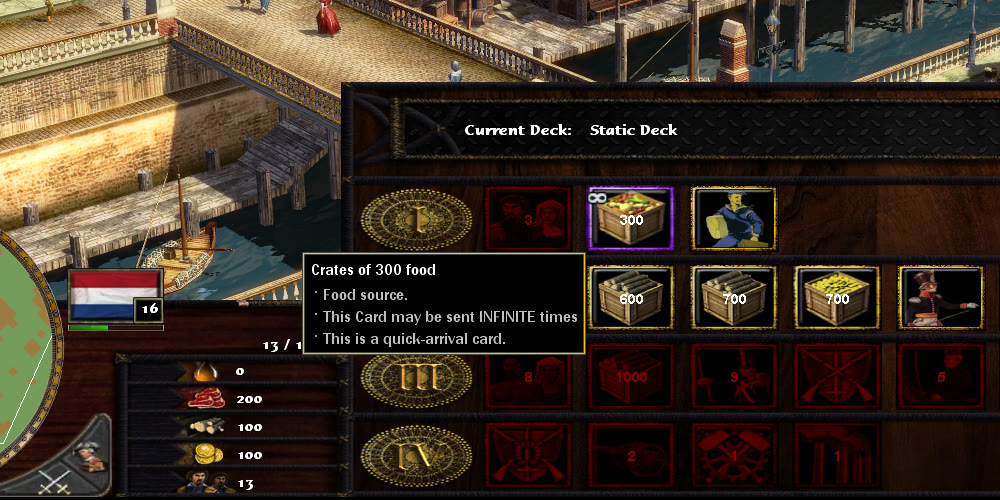
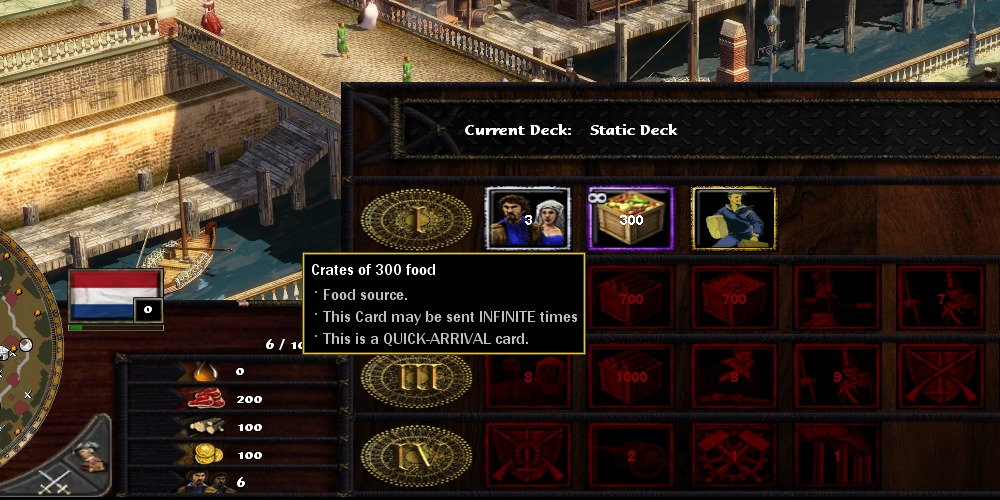
quickArrivalCards: the default line reads "This is a QUICK-ARRIVAL card." (JTMaston, #99)
The four pictures with the line (in-game panel and Build a Deck, infinite and once card) taken again in
C:\AoE3-UHC-WoLReal3; the docs, the cfg template and the release README quote the new text.

Claude-Session: https://claude.ai/code/session_01GGKAnWzN5jTKNpJ5oBoixZ

diff --git a/src/features/quickarrival.cpp b/src/features/quickarrival.cpp
@@ -1,5 +1,5 @@
 // quickArrivalCards [stringid N] [log]: <Flag>QuickArrival</Flag> on a home city card's tech adds the bullet line
-// "This is a quick-arrival card." to the card's rollover, right after its send-limit line ("This Card may be sent
+// "This is a QUICK-ARRIVAL card." to the card's rollover, right after its send-limit line ("This Card may be sent
 // INFINITE times" / "ONE time" / N times), before the advanced info. Display only.
 //
 // The card rollover builder FUN_007103CE(list, hc, tech, ...) is the one used by the in-game shipment panel
@@ -29,7 +29,7 @@ namespace {
 
 constexpr std::uint32_t kAdvancedJoin = 0x00710909;  // mov ecx,[0D6F6F0h]
 constexpr std::int32_t kMaxTech = 1 << 20;
-constexpr const wchar_t* kDefaultText = L"This is a quick-arrival card.";
+constexpr const wchar_t* kDefaultText = L"This is a QUICK-ARRIVAL card.";
 constexpr const wchar_t* kBullet = L"<ttf><ttb>";  // what FUN_004C5076(list, line, 1, 0) puts before a line
 
 // The engine's string: one pointer to a wide, reference-counted buffer; null is empty.

diff --git a/tools/package_release.py b/tools/package_release.py
@@ -296,7 +296,7 @@ ageFiveShipments              cards of <age>4</age> (Imperial Age) in the deck, 
 resendableCards [log]         <resendeveryage>1</resendeveryage> on a card: sendable again (its
                               maxcount) each time its player reaches a new age
 quickArrivalCards [stringid N] [log]  <Flag>QuickArrival</Flag> on a card's tech: the bullet line
-                              "This is a quick-arrival card." in the card's rollover
+                              "This is a QUICK-ARRIVAL card." in the card's rollover
 shipmentCounts [log]          cards shipped per player and card age, kept in saved games; Data
                               subtype FreeHomeCityUnitByShipmentCount, XS
                               xsGetShipmentCount and xsGetShipmentCountRange

diff --git a/docs/wol-requests.md b/docs/wol-requests.md
@@ -306,7 +306,7 @@ WoL's Middle East civs.
 | 96 | "As far as I remember, ship cannon shot sound sets are hardcoded somewhat. We would like to be able to make the rocket ships deliverable from the British home city use the rocket sound effects when shot." From JTMaston (2026-11-22). | hardcode | Built: [`broadsideSoundSet`](modding-guide.md#broadsidesoundset). Every shot of a `BroadsideAttack` action plays `ShipCannonShoot`, pushed at 0x4CECBD in FUN_004CEB37 (the fire step's per-shot effect, its only caller 0x4CEA02); the hook pushes the action's `<BroadsideSoundSet>`. The rocket ships of `HCRocketShips` are Frigates whose actions the card swaps for `RangedAttackRocket` / `BroadsideAttackRocket` (frigate.tactics, both `BroadsideAttack`), so the tag goes on those two actions (`DERocketShoot`, the land Rocket's sound). A name with no sound set is logged at the first shot and falls back. Filmed with sound (rocket Frigates against cannon Frigates) and a control; the sound confirmed by listening (rockets with the tag, cannon without). | confirmed in WoL (2026-11-22, single player) |
 | 97 | "We would like a `homecity<Civ>.xml` card boolean tag that allows a card to be resendable every time the player ages up, similar to how the infinitelastage tag works with imperial age. If the card wasn't sent in one age it should not stack the amount of times it can be resent." From JTMaston (2026-11-23). | new key | New key [`resendableCards`](modding-guide.md#resendablecards): `<resendeveryage>1</resendeveryage>` in a `<card>`. REA (2026-11-23): a player's card list `hc+228h` keeps each card's sends left in `[card+20h]` (set to `<maxcount>` when the list is built, −1 by FUN_0085FBEA at the send 0x85ACF8, +1 at a cancel; the send refuses at 0 with 8FFDh, the panel greys); stock `<infiniteinlastage>` is the byte `[card+24h]` and only one refill of those sends at the Imperial Age (FUN_0085650A from the age setter FUN_008D4E01). The tag is read through a new shared card tag hook (`AddCardTagHandler`, the loader's card commit 0x630017) and kept as bit 1 of `[card+24h]`, so the deck build and saved games carry it; at the age setter's join 0x8D502F, on an advance, a tagged card gets its sends set back to `<maxcount>` (set, not added: no stacking; one reset per age-up). The rollover's cost test lets a tagged card show its cost again (0x710804). Tested on a Dutch test map with the ages set by triggers: sent in Age I, back in Age II; sent in Age II, back in Age III; skipped in Age III, one send in Age IV; an untagged card stays sent; save/load before and after an age-up; key off, nothing comes back (video and control). The AI was not seen sending a tagged card twice (the test AI resigned early in every run). | confirmed in WoL (2026-11-23, single player) |
 | 98 | "If it doesn't cause too much lag and if it is possible, we would like to have an attack action boolean tag that allows a unit that shoots multiple projectiles to switch targets if a target is killed before the last bullet is shot; the mercenary maxim gun is an example of such unit." From JTMaston (2026-11-22). | mechanic | Built: [`retargetInAction`](modding-guide.md#retargetinaction), tag `<RetargetInAction>1</RetargetInAction>` on the attack. The Maxim's "bullets" are the six `Attack` tags of `Bombard_ranged_attack` (maxim_gun.xml): each one is a full shot (event 5 → the shot block, only in the attack's state 1). When the target died, the update (FUN_0048A330, branch 0x487838) moved the attack to its wait (state 19h), so the tags left fired nothing until the 4 s ROF was over. The hook at 0x487838 picks, for a tagged attack still in its animation, the nearest unit in range that the update itself would accept (0x489ECC, range, visibility, auto-attack type) and writes it to the attack's target `[ua+14h]`: the same attack goes on, the next tags hit the new target. A numberOfShots burst whose quick shot kills goes on too (the hold pose keeps the unit in state 1); a target lost during the reload wait is left to the stock code. Tests: Maxims against Landwehr and Regulars (12 killed in 5.3 s against 13 s with the tag at 0; 2 Maxims beat 16 Regulars that win without it), Merina riflemen with 3-shot bursts, save/load, AI skirmish (wolOtto), perfprobe (update 0.36 ms with, 0.35 ms without, no frame over 50 ms). Filmed with a control. Open: whether a player's ordered target should also be replaced (it is, today), and the Maxim's balance now that all six tags hit. | confirmed in WoL (2026-11-23, single player) |
-| 99 | "We'd like a QuickArrival flag for homecity card techs that adds a bullet entry to their description in between the rollover and the advanced info, or right after 'this card can be sent infinite times' if it's an infinite card. The bullet entry should read 'This is a quick-arrival card.' No other changes required." From JTMaston (2026-11-23). | new key | New key [`quickArrivalCards`](modding-guide.md#quickarrivalcards): `<Flag>QuickArrival</Flag>` on the card's tech. REA: the card rollover builder FUN_007103CE (in-game panel, Build a Deck, deck dialog) adds the name, population, rollover text, then the send-limit line (9001h/9002h/9003h, present on every card), then the advanced info; each line is a `<ttf><ttb>` bullet. The new line goes right after the send-limit line, in the same style (0x710909). The flag is read through the tech flag reader's head, now a shared hook (`AddTechFlagHandler`) that `hcTargetTechs` uses too. `stringid N` takes the text from the string table. Pictures: in-game panel and Build a Deck, an infinite and a once card, the control. | confirmed in WoL (2026-11-23, single player) |
+| 99 | "We'd like a QuickArrival flag for homecity card techs that adds a bullet entry to their description in between the rollover and the advanced info, or right after 'this card can be sent infinite times' if it's an infinite card. The bullet entry should read 'This is a quick-arrival card.' No other changes required." From JTMaston (2026-11-23). | new key | New key [`quickArrivalCards`](modding-guide.md#quickarrivalcards): `<Flag>QuickArrival</Flag>` on the card's tech. REA: the card rollover builder FUN_007103CE (in-game panel, Build a Deck, deck dialog) adds the name, population, rollover text, then the send-limit line (9001h/9002h/9003h, present on every card), then the advanced info; each line is a `<ttf><ttb>` bullet. The new line goes right after the send-limit line, in the same style (0x710909). The flag is read through the tech flag reader's head, now a shared hook (`AddTechFlagHandler`) that `hcTargetTechs` uses too. `stringid N` takes the text from the string table. Pictures: in-game panel and Build a Deck, an infinite and a once card, the control. 2026-11-25 (JTMaston): the default line reads *This is a QUICK-ARRIVAL card.*, the pictures taken again. | confirmed in WoL (2026-11-23, single player) |
 | 100 | "Not sure if this has been addressed before, but the Macehualtin animations only works with that model, Macehualtin model. If we could fix that, it'd be awesome since we have some other slinger units planned." From Punchline (2026-11-23). | art | Cause (the game's code, then seen in game): the game plays an animation on a model only through a track group named after the model (`GrannyFindTrackGroupForModel`, 0x426A5F and 0x4B6F1F); the Macehualtin's model and clips are `bone_master`, every standard infantry model `Bip01`, so on another body the clips do nothing (bind pose). The rigs are the same biped otherwise; the sling attachment plays on any body. Fixed in the art: aoe3-blender-tools' `tools/retarget_anims.py` (branch `claude/r1123-n-slinger`) retargets the 35 clips onto a `Bip01` skeleton (rotations from the rest pose, the body's own lengths, props and the hit point bar copied, the tag files with `LAUNCHPOINT` kept) and writes the anim blocks to paste. Preview sheet approved by the user. Pack [`wol-fixes/slinger-anims`](../wol-fixes/slinger-anims/README.txt): clips made on WoL's skirmisher and on the native rifleman, `--test` TEST units. Tested in WoLReal4: idle, walk, sling attack (in step with `POLYMarauder`), melee, deaths, the control in its bind pose, save/load, a German AI compiles; filmed ([guide](modding-guide.md#slinger-animations-on-other-models)). Open: which slinger units and models are planned; keep the shield; which projectile. | confirmed in WoL (2026-11-23, single player) |
 | 101 | Faith as its own resource: villagers pray at churches and mosques to gather faith, with praying animations (kneel for Christian civs, bow for Islamic civs); faith beside oil, in its own panel row. From the user, after JTMaston's faith question (2026-11-23); round 2026-11-24. | resource / art / DLL | **Optional** (the user, 2026-11-24): off unless both parts are on. New key `faithResource [log]`: resource 4 (`SkillPoints`, unused by WoL's data) becomes a plain resource: the skill point total 0x5011C6 no longer adds the home city's skill points (its six callers: kbResourceGet, the AI's KB copies, `{resource()}`, trPlayerResourceCount, the statistics), the home city bank FUN_00852924 adds nothing of it (XP banking kept), and a Gather of faith plays the tactics action's own `<anim>` (the engine picks a gather animation from the target only, FUN_004ED254: at a church villagers danced). Opt-in pack `wol-fixes/faith/` (apply / `--check` / `--restore`, README EN/ES): the Church, the Greek Temple, the Egyptian and Saudi Temple Caravans hold faith; 22 villager protos and 9 tactics files get a Gather `Pray` (0.25/s, the Maypole's rate; 10 per building); 20 anim files get PrayIn/Pray/PrayOut (each model's Idle with its hats, no tools) with the 12 clips of aoe3-blender-tools' `make_pray.py` (branch `claude/r1123-p-pray`); the Zulu are left out by Age0zulu; string 28530 "Faith", 1010001 "Pray", rollover lines; the AI's `buyCards` adds `kbGetHCLevel(cMyID) - 1` to `kbResourceGet(cResourceSkillPoints)` (the AI's start value of resource 4, level + 15, is its card budget and stays: zeroing it left the AI with no cards). Panel row: F2's separate pack `wol-fixes/faith-panel/`. Civs: README. **Tested (2026-11-23/24, copy WoLReal5, our UHC.dll, single player):** Spanish settlers knelt at a Church, faith +1.0/s with 4 (0.25 each), 0 at the start with 9 home city skill points; Persian-style SettlerME bowed at a Church and Balkan Peasants knelt at the Greek Temple, +1.5/s with 6; Ottoman settlers bowed at their mosque in a skirmish, and at the victory 65 faith was not banked (`log`), the saved Istanbul home city kept 9 skill points while its XP was banked; save and load kept faith (26.5) and the prayer; the AI (Germans) bought 14 cards with the key and the pack as without them (resource 4 20 → 6) and played 7.5 minutes (20 settlers, a Mill, Manors) with no XS error; without the key's animation hook the villagers danced at the church (the engine never plays a Gather's `<anim>`, FUN_004ED254); key and pack off: they stood idle at it. Videos `faithResource-wol`, `faithResource-ottomans-wol`, `faithResource-wol-control`. Performance: main thread 82.2 % with and without the key, 0 frames over 50 ms. **Panel (F2, `wol-fixes/faith-panel/`):** the faith row under oil in all 12 `SettlerCountDialog` variants of `data\uimainnew.xml`: `{resource(skillpoints)}`, tooltip string 1010101 ("Faith Gatherers: N", Spanish "Recolectores de fe: N"), click `uiFindResourceGatherers("skillpoints")`, the gatherer count on the left in the Asian, Native and advanced variants. The five panel backgrounds rebuilt by aoe3-blender-tools `tools/panel_rows.py` (every row moved from WoL's texture, the faith row painted with `tools/draw_praying_hands.py`; the icon is one PNG, swapped in one step); only the panel's DXT blocks change. Also fixed: the Asian minimized panel (population over the oil row, no oil amount) and the Native minimized one (no panel in its background); four oil gadgets renamed `minimapPanel-fame`. An optional, opt-in pack (the user, 2026-11-24: faith is a separate option, delivered apart from the rounds) with apply / `--check` / `--restore`; `--no-faith` installs only the panel fixes that do not need faith (WoL's own rows, `data\uimainnew.xml` only). Independent of the faith pack except the string tables (different IDs). | done (optional key + opt-in pack; single player); questions to JTMaston: civs, rates, what faith buys, leftovers, AI |
 | 102 | "The current gatling camel model is very crude. Take the zamburak's model as the base, replace its weapon with the rotating part and the trunnion of the American gatling, and animate it; in-game animations can be used as inspiration." From JTMaston (2026-11-24). | art / data | Replaces today's `GatlingCamel` (static gun, wood frame, gunner on foot). aoe3-blender-tools' `tools/make_gun_camel.py` (branch `claude/r1124-gatling-camel`): the zamburak camel with its swivel gun cut out (29 triangles; its post kept as the mount), the stock Gatling's casing with trunnion, barrels, crank and magazine as rigid parts on their own bones at 0.55 of its size, hung on `ATTACHPOINT` with `syncanims`, `bone_launchpoint` at the muzzle; the rider cranks it (IK), the barrels spin, the camel lowers its head at the gun. Previews approved by the user (model sheet, A saddle, B deployed, move, gaze; four rounds of fixes). Pack [`wol-fixes/gatling-camel`](../wol-fixes/gatling-camel/README.txt) (apply / `--check` / `--restore`, README EN/ES): `GatlingCamel` gets the new anim file and `GatlingCamelSaddle.tactics` (fires from the saddle, like the zamburak; stats, cards and strings unchanged); new `GatlingCamelDeployed` (copy of `GatlingCamel`, strings 690950-690952, `GatlingCamelDeployed.tactics`: deploy 5.33 s, undeploy 4.17 s): the camel lies down (the game's lying-down clips of its rig, turned upright), the gunner gets off step by step and fires on foot. After the user's review of the first films (2026-11-23), three bugs fixed: the camel's left legs drawn lifted (the stock clips' leg mirrors copied in the clips' own axes; now converted and checked bone by bone against the stock clips, 1e-7), the gun left in the air on death (then it turned on itself while the corpse faded; now the dead unit is the camel model with the gun built in, playing the stock camel deaths, so it falls and fades with the camel), the "giant" Gatling of the control (today's WoL model). In game the tool needed three fixes: the packed vertex stream 16-byte aligned (else the camel is not drawn), the gun hung on the rider's bone (on `HS Bone Chest` it drew tipped up), the gun's tangents kept (else it drew far too bright). Tested in WoLReal6: both units idle, walk, attack (shots from the muzzle), reload, deploy/undeploy, deaths, selection and HP bar, save/load, a Saudi skirmish against a German AI (no XS error); filmed with today's unit as the control ([guide](modding-guide.md#the-gatling-camel)). Second round (2026-11-23): walk, jog and run of both units mounted, the deploy, the undeploy and remount, the three deaths to the end of the fade, filmed close and checked frame by frame; movement video `gatlingCamel-move-wol`. Open: how `GatlingCamelDeployed` is obtained, its stats, whether the old model stays as an option. | confirmed in WoL (2026-11-23, single player); questions to JTMaston |

diff --git a/docs/modding-guide.md b/docs/modding-guide.md
@@ -38,7 +38,7 @@ A new test video counts as a change: a feature filmed again in WoL moves back to
 | Monday 2026-11-23 09:18 | [`dmgPartBoneFix`](bug-fixes.md#dmgpartbonefix) | Added. Stops the game from reloading a 3D model in use when a damage template names a bone the model lacks, the other cause of the Granny crashes (WoL #78). | Nothing; `wol-fixes/art-dmg-bones-20261123/` fixes the data itself. |
 | Monday 2026-11-23 08:05 | [`modelCacheLimit`](bug-fixes.md#modelcachelimit) | Added. Stops the game from unloading 3D models that units still use, the cause of the Granny crashes in big games (WoL #78). | The two data fixes in `wol-fixes/art-dmg-bones-20261123/`. |
 | Monday 2026-11-23 07:59 | [`resendableCards`](#resendablecards) | Added. `<resendeveryage>1</resendeveryage>` in a home city card: the card can be sent again each time its player reaches a new age (its `<maxcount>` back, no stacking across ages). | The tag on the cards that want it. |
-| Monday 2026-11-23 07:59 | [`quickArrivalCards`](#quickarrivalcards) | Added. `<Flag>QuickArrival</Flag>` on a card's tech adds the bullet line *This is a quick-arrival card.* to the card's rollover, after its *may be sent ... | The flag on the cards' techs; a string in the string table to translate the line. |
+| Monday 2026-11-23 07:59 | [`quickArrivalCards`](#quickarrivalcards) | Added. `<Flag>QuickArrival</Flag>` on a card's tech adds the bullet line *This is a QUICK-ARRIVAL card.* to the card's rollover, after its *may be sent ... | The flag on the cards' techs; a string in the string table to translate the line. |
 | Monday 2026-11-23 07:56 | [`retargetInAction`](#retargetinaction) | Added. An attack with `<RetargetInAction>1</RetargetInAction>` whose target dies before the last shot of its attack animation (a machine gun's Attack tags, a burst's quick shot) fires the rest at a new target in range, instead of losing them. | The tag on the attacks that want it (the machine guns' `CannonAttack` in `organGun.tactics`). |
 | Sunday 2026-11-22 13:54 | [`unitResourceAuras`](#unitresourceauras) | Filmed in WoL, with a control. An `AutoRangedModify` action with `<ModifyType>UnitResource</ModifyType>` gathers from the units around it, with DE's tags. | Nothing: WoL's `sawmill.tactics` already has such an aura. |
 | Sunday 2026-11-22 12:35 | [`broadsideSoundSet`](#broadsidesoundset) | Filmed in WoL, with a control. A `BroadsideAttack` action plays the sound set of its `<BroadsideSoundSet>` at each shot instead of `ShipCannonShoot`. | The tag on the rocket ships' actions in `frigate.tactics` (`RangedAttackRocket`, `BroadsideAttackRocket`). |
@@ -608,7 +608,7 @@ Caps that are fixed in the exe.
 | [`deckCardCount`](#deckcardcount) | Raises the 25-card deck cap. | in WoL's DLL | A higher `<maxdecksize>` in `data\homecitylevels.xml` (25 at all 132 levels today). | confirmed above the level table; see the section |
 | [`ageFiveShipments`](#agefiveshipments) | Home city cards of the Imperial Age (`<age>4</age>`) are in the deck, shown at the right end of the Age IV row (the Age IV cards stay at the left), greyed until the Imperial Age, then sent like the others. | **new** | `<age>4</age>` on the cards that want it. | confirmed (single player) |
 | [`resendableCards`](#resendablecards) | `<resendeveryage>1</resendeveryage>` in a home city card: the card can be sent again each time its player reaches a new age (its `<maxcount>` back, no stacking across ages). | **new** | The tag on the cards that want it. | confirmed (single player) |
-| [`quickArrivalCards`](#quickarrivalcards) | `<Flag>QuickArrival</Flag>` on a card's tech adds the bullet line *This is a quick-arrival card.* to the card's rollover, after its *may be sent ... times* line. | **new** | The flag on the cards' techs; a string in the string table to translate the line. | confirmed (single player) |
+| [`quickArrivalCards`](#quickarrivalcards) | `<Flag>QuickArrival</Flag>` on a card's tech adds the bullet line *This is a QUICK-ARRIVAL card.* to the card's rollover, after its *may be sent ... times* line. | **new** | The flag on the cards' techs; a string in the string table to translate the line. | confirmed (single player) |
 | [`selectionLimit`](#selectionlimit) | A selection holds up to N units (50 in the exe). `wol.cfg` sets 75. | **in `wol.cfg`** | Nothing. | confirmed |
 | [`noAILimit`](#noailimit) | Shows every `AI4\*.personality` file in game setup. WoL uses `noAILimitV2` instead. | in WoL's DLL | The personality files. | confirmed |
 | [`noAILimitV2`](#noailimitv2) | Shows WoL's 52 `AI4\*.personality` files in game setup. Without it, a random AI crashes the game. | **in `wol.cfg`** | The personality files. | confirmed |
@@ -962,20 +962,21 @@ resendableCards [log]
 
 #### quickArrivalCards
 
-*Adds the line "This is a quick-arrival card." to the rollover of the cards whose tech has the QuickArrival flag.*
+*Adds the line "This is a QUICK-ARRIVAL card." to the rollover of the cards whose tech has the QuickArrival flag.*
 
 **Added:** Monday 2026-11-23 07:59
 
 ![quickArrivalCards: an infinite card in the shipment panel](media/quickArrivalCards-panel-infinite.jpg)
 
-*In WoL (2026-11-23, a Dutch skirmish, the in-game shipment panel; `<Flag>QuickArrival</Flag>` added to
-`HCShipFoodCrates1` and `HCShipCoinCrates3` in the copy's `techtreey.xml`):* the infinite card "Crates of 300 food" ends
-with *This Card may be sent INFINITE times* and then *This is a quick-arrival card.*, as its own bullet.
+*In WoL (taken again on 2026-11-25 with the line in capitals; a Dutch skirmish, the in-game shipment panel;
+`<Flag>QuickArrival</Flag>` added to `HCShipFoodCrates1` and `HCShipCoinCrates3` in the copy's `techtreey.xml`):* the
+infinite card "Crates of 300 food" ends with *This Card may be sent INFINITE times* and then *This is a QUICK-ARRIVAL
+card.*, as its own bullet.
 
 ![quickArrivalCards: a card sent once, in the shipment panel](media/quickArrivalCards-panel-once.jpg)
 
-*The same panel, "Chests of 700 coin" (sent once):* its rollover text, *This Card may be sent ONE time*, then the new
-line.
+*The same panel, "Chests of 700 coin" (sent once, greyed in Age I):* the game's red *This Card cannot be sent until Age
+2*, its rollover text, *This Card may be sent ONE time*, then the new line.
 
 ![quickArrivalCards: the control card](media/quickArrivalCards-panel-control.jpg)
 
@@ -984,8 +985,9 @@ line.
 ![quickArrivalCards in Build a Deck](media/quickArrivalCards-deck-builder.jpg)
 
 *"Build a Deck" on the home city screen:* the same line on the card with the flag, after the game's red *This Card cannot
-be sent until Age 2*, its rollover text and its send limit. More: the infinite card and the control card in "Build a
-Deck", and the line taken from the string table (`stringid`), in `docs/media/quickArrivalCards-*.jpg`.
+be sent until Age 2*, its rollover text and its send limit. More: the infinite card (taken again on 2026-11-25 too) and
+the control card in "Build a Deck", and the line taken from the string table (`stringid`), in
+`docs/media/quickArrivalCards-*.jpg`. The control pictures and the `stringid` one show no default line, so they stayed.
 
 ```
 quickArrivalCards [stringid N] [log]
@@ -993,13 +995,15 @@ quickArrivalCards [stringid N] [log]
 
 - **In WoL today:** nothing in a card's rollover says that it arrives quickly. JTMaston's #99 (2026-11-23).
 - **What the key does:** for a card whose tech has `<Flag>QuickArrival</Flag>`, the card's rollover gets one more bullet,
-  *This is a quick-arrival card.*, right after the line *This Card may be sent INFINITE times* (or *ONE time*, or the
+  *This is a QUICK-ARRIVAL card.*, right after the line *This Card may be sent INFINITE times* (or *ONE time*, or the
   *N times* line), so it sits between the card's own rollover text and the advanced information (the detailed help, when
   that option is on). The line looks like the game's other lines of the card. The same rollover is used by the in-game
   shipment panel, "Build a Deck" and the deck chooser. Nothing else about the card changes: the flag does not change
   how fast a card arrives.
 - **`stringid N`:** the line is string N of the string table (`data\stringtabley.xml`), so it can be translated; an
-  empty or missing string falls back to the English text. Without it, the English text.
+  empty or missing string falls back to the English text. Without it, the English text, with *QUICK-ARRIVAL* in
+  capitals since 2026-11-25 (JTMaston's request; it read *quick-arrival* before). A string set with `stringid` is
+  shown as written.
 - **What a modder writes:** in the card's tech in `techtreey.xml`:
   ```xml
   <Tech name ='HCShipFoodCrates1' type ='Normal'>
@@ -1009,7 +1013,7 @@ quickArrivalCards [stringid N] [log]
   ```
 - **Off:** the game ignores the flag, as it ignores any name it does not know.
 - **Multiplayer:** display only; players may set it differently.
-- **Log:** `quickArrivalCards: the tech flag QuickArrival adds the line "This is a quick-arrival card." to a card's
+- **Log:** `quickArrivalCards: the tech flag QuickArrival adds the line "This is a QUICK-ARRIVAL card." to a card's
   rollover` (or `the line of string N`); with `log`, `tech 935 has the QuickArrival flag` per flagged tech and, once,
   `the line was added to the rollover of tech 935`; `hook reached: tech flags (0x620C2F)`, `... quickArrivalCards
   (0x710909)`.
@@ -1019,6 +1023,9 @@ quickArrivalCards [stringid N] [log]
   with `stringid 36865` the line read the text of that string. With `hcTargetTechs` on and `<Flag>HCTargetEnemy</Flag>`
   on a test tech, both keys read their flags through the shared hook (`hcTargetTechs: HCTargetEnemy read`). Not tested:
   the deck chooser (the same rollover builder), another language.
+- **Tested again (2026-11-25, `C:\AoE3-UHC-WoLReal3`, the same flags; the copy's own profile with `HCShipFoodCrates1`
+  in the Dutch deck):** the log reads `adds the line "This is a QUICK-ARRIVAL card."`, and the line shows in capitals
+  in the in-game panel and in "Build a Deck" (the four pictures above).
 
 #### selectionLimit
 

diff --git a/docs/porting-code/techs.md b/docs/porting-code/techs.md
@@ -2552,7 +2552,7 @@ Sites: `BStringAppend` `0x443960` (16 B), `CardBulletLine` `0x4C5076` (42 B), `C
 
 ```cpp
 // quickArrivalCards [stringid N] [log]: <Flag>QuickArrival</Flag> on a home city card's tech adds the bullet line
-// "This is a quick-arrival card." to the card's rollover, right after its send-limit line ("This Card may be sent
+// "This is a QUICK-ARRIVAL card." to the card's rollover, right after its send-limit line ("This Card may be sent
 // INFINITE times" / "ONE time" / N times), before the advanced info. Display only.
 //
 // The card rollover builder FUN_007103CE(list, hc, tech, ...) is the one used by the in-game shipment panel
@@ -2582,7 +2582,7 @@ namespace {
 
 constexpr std::uint32_t kAdvancedJoin = 0x00710909;  // mov ecx,[0D6F6F0h]
 constexpr std::int32_t kMaxTech = 1 << 20;
-constexpr const wchar_t* kDefaultText = L"This is a quick-arrival card.";
+constexpr const wchar_t* kDefaultText = L"This is a QUICK-ARRIVAL card.";
 constexpr const wchar_t* kBullet = L"<ttf><ttb>";  // what FUN_004C5076(list, line, 1, 0) puts before a line
 
 // The engine's string: one pointer to a wide, reference-counted buffer; null is empty.

diff --git a/docs/how-it-works.md b/docs/how-it-works.md
@@ -2104,7 +2104,7 @@ the tech's ID (`[[record]+0]`) in a table and takes the flag, which stock would 
 0x7108C3, 0x7108DB and the fall-through after the send-limit line, no push outstanding):
 `UhcQuickArrivalLine(out = [esp+44h], tech = [esp+4Ch], list = [esp+58h])`, then the replaced load and `jmp 0x71090F`.
 For a flagged tech it appends `<ttf><ttb>` and the text with the BString append 0x443960, as FUN_004C5076 does (a `\n`
-instead of the bullet in string mode). The text is *This is a quick-arrival card.*, or string N of the string table
+instead of the bullet in string mode). The text is *This is a QUICK-ARRIVAL card.*, or string N of the string table
 with `stringid N` (read at each rollover, so a language change follows; an empty string falls back to the English).
 So the line comes right after the send-limit line: after *This Card may be sent INFINITE times* for an infinite card,
 and between the card's rollover text (and its send limit) and the advanced info for the others.
